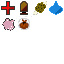
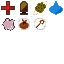
Only allow a player at a time searching an object

Changed region(s): [[0.5312, 0.2812, 0.7188, 0.4688]]

diff --git a/server.c b/server.c
@@ -1044,7 +1044,8 @@ send_server_state (int sockfd, uint32_t frame_counter, int id, struct player *pl
 	  msg->args.server_state.bag [i] = pls [id].bag [i].type;
 	}
 
-      if (pls [id].might_search_at)
+      if (pls [id].might_search_at
+	  && pls [id].might_search_at->searched_by == &pls [id])
 	{
 	  msg->args.server_state.is_searching++;
 
@@ -1096,6 +1097,28 @@ send_server_state (int sockfd, uint32_t frame_counter, int id, struct player *pl
 	}
 
       as = as->next;
+    }
+
+  for (i = 0; i < MAX_PLAYERS; i++)
+    {
+      if (pls [i].id != -1 && pls [id].agent->area == pls [i].agent->area
+	  && pls [i].is_searching && pls [i].might_search_at
+	  && pls [i].might_search_at->searched_by == &pls [i])
+	{
+	  if (sizeof (msg)+msg->args.server_state.num_visibles
+	      *sizeof (struct visible) > MAXMSGSIZE)
+	    break;
+
+	  vis.type = VISIBLE_SEARCHING;
+	  vis.x = pls [i].agent->place.x+12;
+	  vis.y = pls [i].agent->place.y-16;
+	  vis.w = 16;
+	  vis.h = 16;
+
+	  memcpy (&buf [sizeof (*msg)+msg->args.server_state.num_visibles
+			*sizeof (vis)], &vis, sizeof (vis));
+	  msg->args.server_state.num_visibles++;
+	}
     }
 
   while (objs)
@@ -1163,7 +1186,8 @@ send_server_state (int sockfd, uint32_t frame_counter, int id, struct player *pl
       ss = ss->next;
     }
 
-  if (!pls [id].is_searching && pls [id].might_search_at)
+  if (!pls [id].is_searching && pls [id].might_search_at
+      && !pls [id].might_search_at->searched_by)
     {
       vis.type = VISIBLE_SEARCHABLE;
       vis.x = pls [id].might_search_at->icon.x;
@@ -1571,7 +1595,17 @@ main (int argc, char *argv[])
 			  players [id].is_searching = 1;
 			}
 		      else
-			players [id].is_searching = 0;
+			{
+			  if (players [id].is_searching)
+			    {
+			      if (players [id].might_search_at
+				  && players [id].might_search_at->searched_by
+				  == &players [id])
+				players [id].might_search_at->searched_by = NULL;
+			    }
+
+			  players [id].is_searching = 0;
+			}
 
 		      players [id].swap1 = msg->args.client_char_state.swap [0];
 		      players [id].swap2 = msg->args.client_char_state.swap [1];
@@ -1931,7 +1965,17 @@ main (int argc, char *argv[])
 	  while (b)
 	    {
 	      if (IS_RECT_CONTAINED (players [i].agent->place, b->place))
-		players [i].might_search_at = b;
+		{
+		  players [i].might_search_at = b;
+
+		  if (players [i].is_searching)
+		    {
+		      if (!b->searched_by)
+			b->searched_by = &players [i];
+		    }
+
+		  break;
+		}
 
 	      b = b->next;
 	    }
@@ -1939,10 +1983,12 @@ main (int argc, char *argv[])
 	  if (players [i].is_searching && players [i].swap1 >= 0
 	      && (players [i].swap1 < BAG_SIZE
 		  || (players [i].might_search_at
+		      && players [i].might_search_at->searched_by == &players [i]
 		      && players [i].swap1 < BAG_SIZE*2))
 	      && players [i].swap2 >= 0
 	      && (players [i].swap2 < BAG_SIZE
 		  || (players [i].might_search_at
+		      && players [i].might_search_at->searched_by == &players [i]
 		      && players [i].swap2 < BAG_SIZE*2))
 	      && !players [i].swap_rest)
 	    {
@@ -2048,6 +2094,10 @@ main (int argc, char *argv[])
 	      send_message (sockfd, &players [i].address, -1, MSG_PLAYER_DIED);
 	      players [i].id = -1;
 
+	      if (players [i].might_search_at
+		  && players [i].might_search_at->searched_by == &players [i])
+		players [i].might_search_at->searched_by = NULL;
+
 	      if (players [i].agent->prev)
 		players [i].agent->prev->next = players [i].agent->next;
 	      else
@@ -2089,6 +2139,10 @@ main (int argc, char *argv[])
 		  printf ("player %s disconnected due to timeout\n",
 			  players [i].name);
 		  players [i].id = -1;
+
+		  if (players [i].might_search_at
+		      && players [i].might_search_at->searched_by == &players [i])
+		    players [i].might_search_at->searched_by = NULL;
 
 		  if (players [i].agent->prev)
 		    players [i].agent->prev->next = players [i].agent->next;

diff --git a/client.c b/client.c
@@ -225,6 +225,7 @@ main (int argc, char *argv[])
     healthobjrect = {0, 0, 16, 16}, bulletobjrect = {16, 0, 16, 16},
     foodobjrect = {32, 0, 16, 16}, waterobjrect = {48, 0, 16, 16},
     fleshobjrect = {0, 16, 16, 16}, searchableiconrect = {16, 16, 16, 16},
+    searchingiconrect = {32, 16, 16, 16},
     bagslotsrects [] = {{30, 48, 16, 16}, {82, 48, 16, 16}, {30, 96, 16, 16},
 			{82, 96, 16, 16}, {30, 144, 16, 16}, {82, 144, 16, 16},
 			{30, 192, 16, 16}, {82, 192, 16, 16},
@@ -899,8 +900,7 @@ main (int argc, char *argv[])
 	      vis = *(struct visible *)(latest_srv_state+sizeof (struct message)
 					+i*sizeof (vis));
 
-	      if ((vis.type < VISIBLE_HEALTH || vis.type > VISIBLE_FLESH)
-		  && vis.type != VISIBLE_SEARCHABLE)
+	      if (vis.type < VISIBLE_HEALTH || vis.type > VISIBLE_FLESH)
 		continue;
 
 	      pers.x = -camera_src.x + area->walkable.x + vis.x;
@@ -912,8 +912,7 @@ main (int argc, char *argv[])
 			      : vis.type == VISIBLE_AMMO ? &bulletobjrect
 			      : vis.type == VISIBLE_FOOD ? &foodobjrect
 			      : vis.type == VISIBLE_WATER ? &waterobjrect
-			      : vis.type == VISIBLE_FLESH ? &fleshobjrect
-			      : &searchableiconrect, &pers);
+			      : &fleshobjrect, &pers);
 	    }
 
 	  for (i = 0; i < state->args.server_state.num_visibles; i++)
@@ -977,6 +976,27 @@ main (int argc, char *argv[])
 					   ((loc_char_speed_x || loc_char_speed_y)
 					    ? 1+(frame_counter%12)/6 : 0)],
 			  &character_dest);
+	}
+
+      if (latest_srv_state)
+	{
+	  for (i = 0; i < state->args.server_state.num_visibles; i++)
+	    {
+	      vis = *(struct visible *)(latest_srv_state+sizeof (struct message)
+					+i*sizeof (vis));
+
+	      if (vis.type != VISIBLE_SEARCHABLE
+		  && vis.type != VISIBLE_SEARCHING)
+		continue;
+
+	      pers.x = -camera_src.x + area->walkable.x + vis.x;
+	      pers.y = -camera_src.y + area->walkable.y + vis.y;
+	      pers.w = GRID_CELL_W;
+	      pers.h = GRID_CELL_H;
+	      SDL_RenderCopy (rend, objectstxtr,
+			      vis.type == VISIBLE_SEARCHABLE ? &searchableiconrect
+			      : &searchingiconrect, &pers);
+	    }
 	}
 
       if (area->overlay_frames_num)

diff --git a/zombieland.h b/zombieland.h
@@ -109,6 +109,7 @@ client_char_state_args
 #define VISIBLE_WATER  6
 #define VISIBLE_FLESH  7
 #define VISIBLE_SEARCHABLE 8
+#define VISIBLE_SEARCHING 9
 
 struct
 visible
